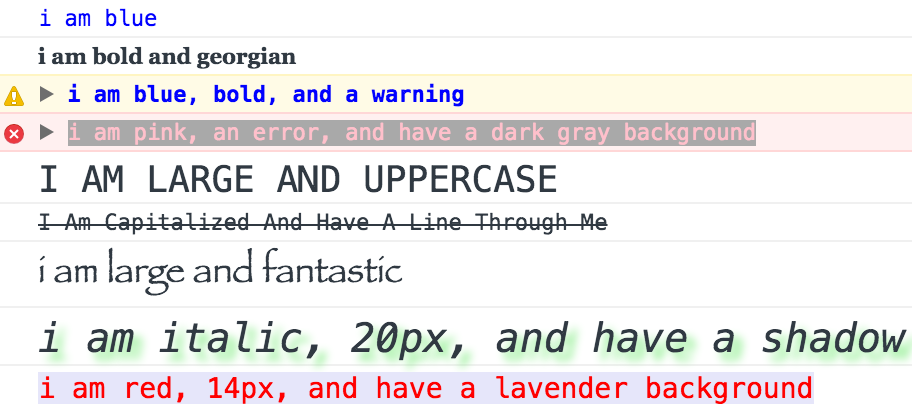
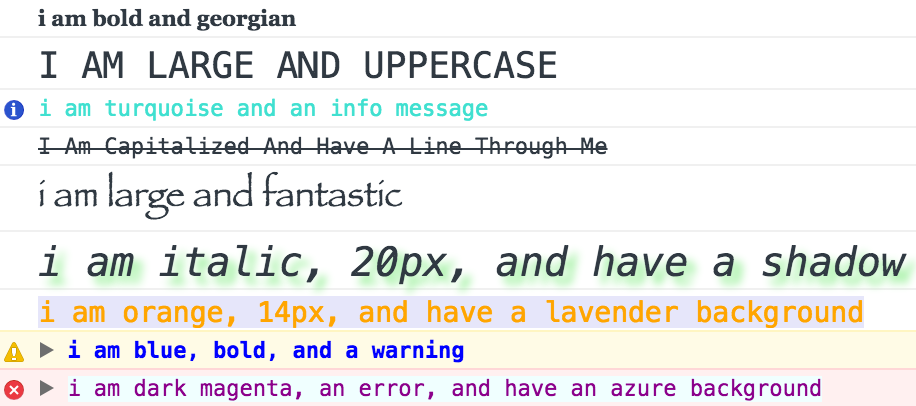
feat: info log level

diff --git a/example/src/index.js b/example/src/index.js
@@ -1,14 +1,10 @@
 import pwc from './../../dist/pretty-web-console'
 
-pwc().blue().log('i am blue')
-
 pwc().family('georgia').bold().log('i am bold and georgian')
 
-pwc().color('blue').weight('bold').warn('i am blue, bold, and a warning')
-
-pwc().pink().bgdarkgray().error('i am pink, an error, and have a dark gray background')
-
 pwc().large().uppercase().log('i am large and uppercase')
+
+pwc().turquoise().info('i am turquoise and an info message')
 
 pwc().capitalize().linethrough().log('i am capitalized and have a line through me')
 
@@ -17,7 +13,11 @@ pwc().fantasy().large().log('i am large and fantastic')
 pwc().italic().size(20).shadow('4px 4px 5px lightgreen').log('i am italic, 20px, and have a shadow')
 
 pwc({
-  color: 'red',
+  color: 'orange',
   size: 14,
   bg: 'lavender'
-}).log('i am red, 14px, and have a lavender background')
+}).log('i am orange, 14px, and have a lavender background')
+
+pwc().color('blue').weight('bold').warn('i am blue, bold, and a warning')
+
+pwc().darkmagenta().bgazure().error('i am dark magenta, an error, and have an azure background')

diff --git a/src/chainFns.js b/src/chainFns.js
@@ -3,7 +3,7 @@ import { appendColor, appendWeight, appendBg, appendSize, appendDecorate, append
 
 function chainFns (store) {
   store.styleFns = {
-    log, warn, error, color, weight, bg, size, decorate, family, style, transform, shadow
+    log, warn, error, info, color, weight, bg, size, decorate, family, style, transform, shadow
   }
 
   function log (val, log = console.log) {
@@ -18,6 +18,11 @@ function chainFns (store) {
 
   function error (val, error = console.error) {
     error(`%c${val}`, store.style)
+    store.style = ''
+  }
+
+  function info (val, info = console.info) {
+    info(`%c${val}`, store.style)
     store.style = ''
   }
 

diff --git a/test/log.js b/test/log.js
@@ -23,6 +23,13 @@ test('.error("hi"): error text', t => {
   t.is(out, undefined)
 })
 
+test('.info("hi"): info text', t => {
+  t.plan(2)
+  const out = pwc().info('hi', logSpy)
+  t.true(logSpy.calledWith('%chi', ''))
+  t.is(out, undefined)
+})
+
 let logSpy
 test.beforeEach('setup', () => {
   logSpy = spy()

diff --git a/README.md b/README.md
@@ -54,7 +54,7 @@ Besides supporting raw css values, the following names can be used for chaining.
 
 ## Log Levels
 
-You can utilize `.log()`, `.warn()`, and `.error()`. By default, the logger used is the standard browser console. But, you may pass in your own logger if you want for any level. For example, `.warn('hi', customWarn)`.
+You can utilize `.log()`, `.warn()`, `.error()`, and `.info()`. By default, the logger used is the standard browser console. But, you may pass in your own logger if you want for any level. For example, `.warn('hi', customWarn)` as long as `customWarn` takes a message in its first argument.
 
 [![NPM](https://nodei.co/npm/pretty-web-console.png?downloads=true)](https://www.npmjs.com/package/pretty-web-console)
 
